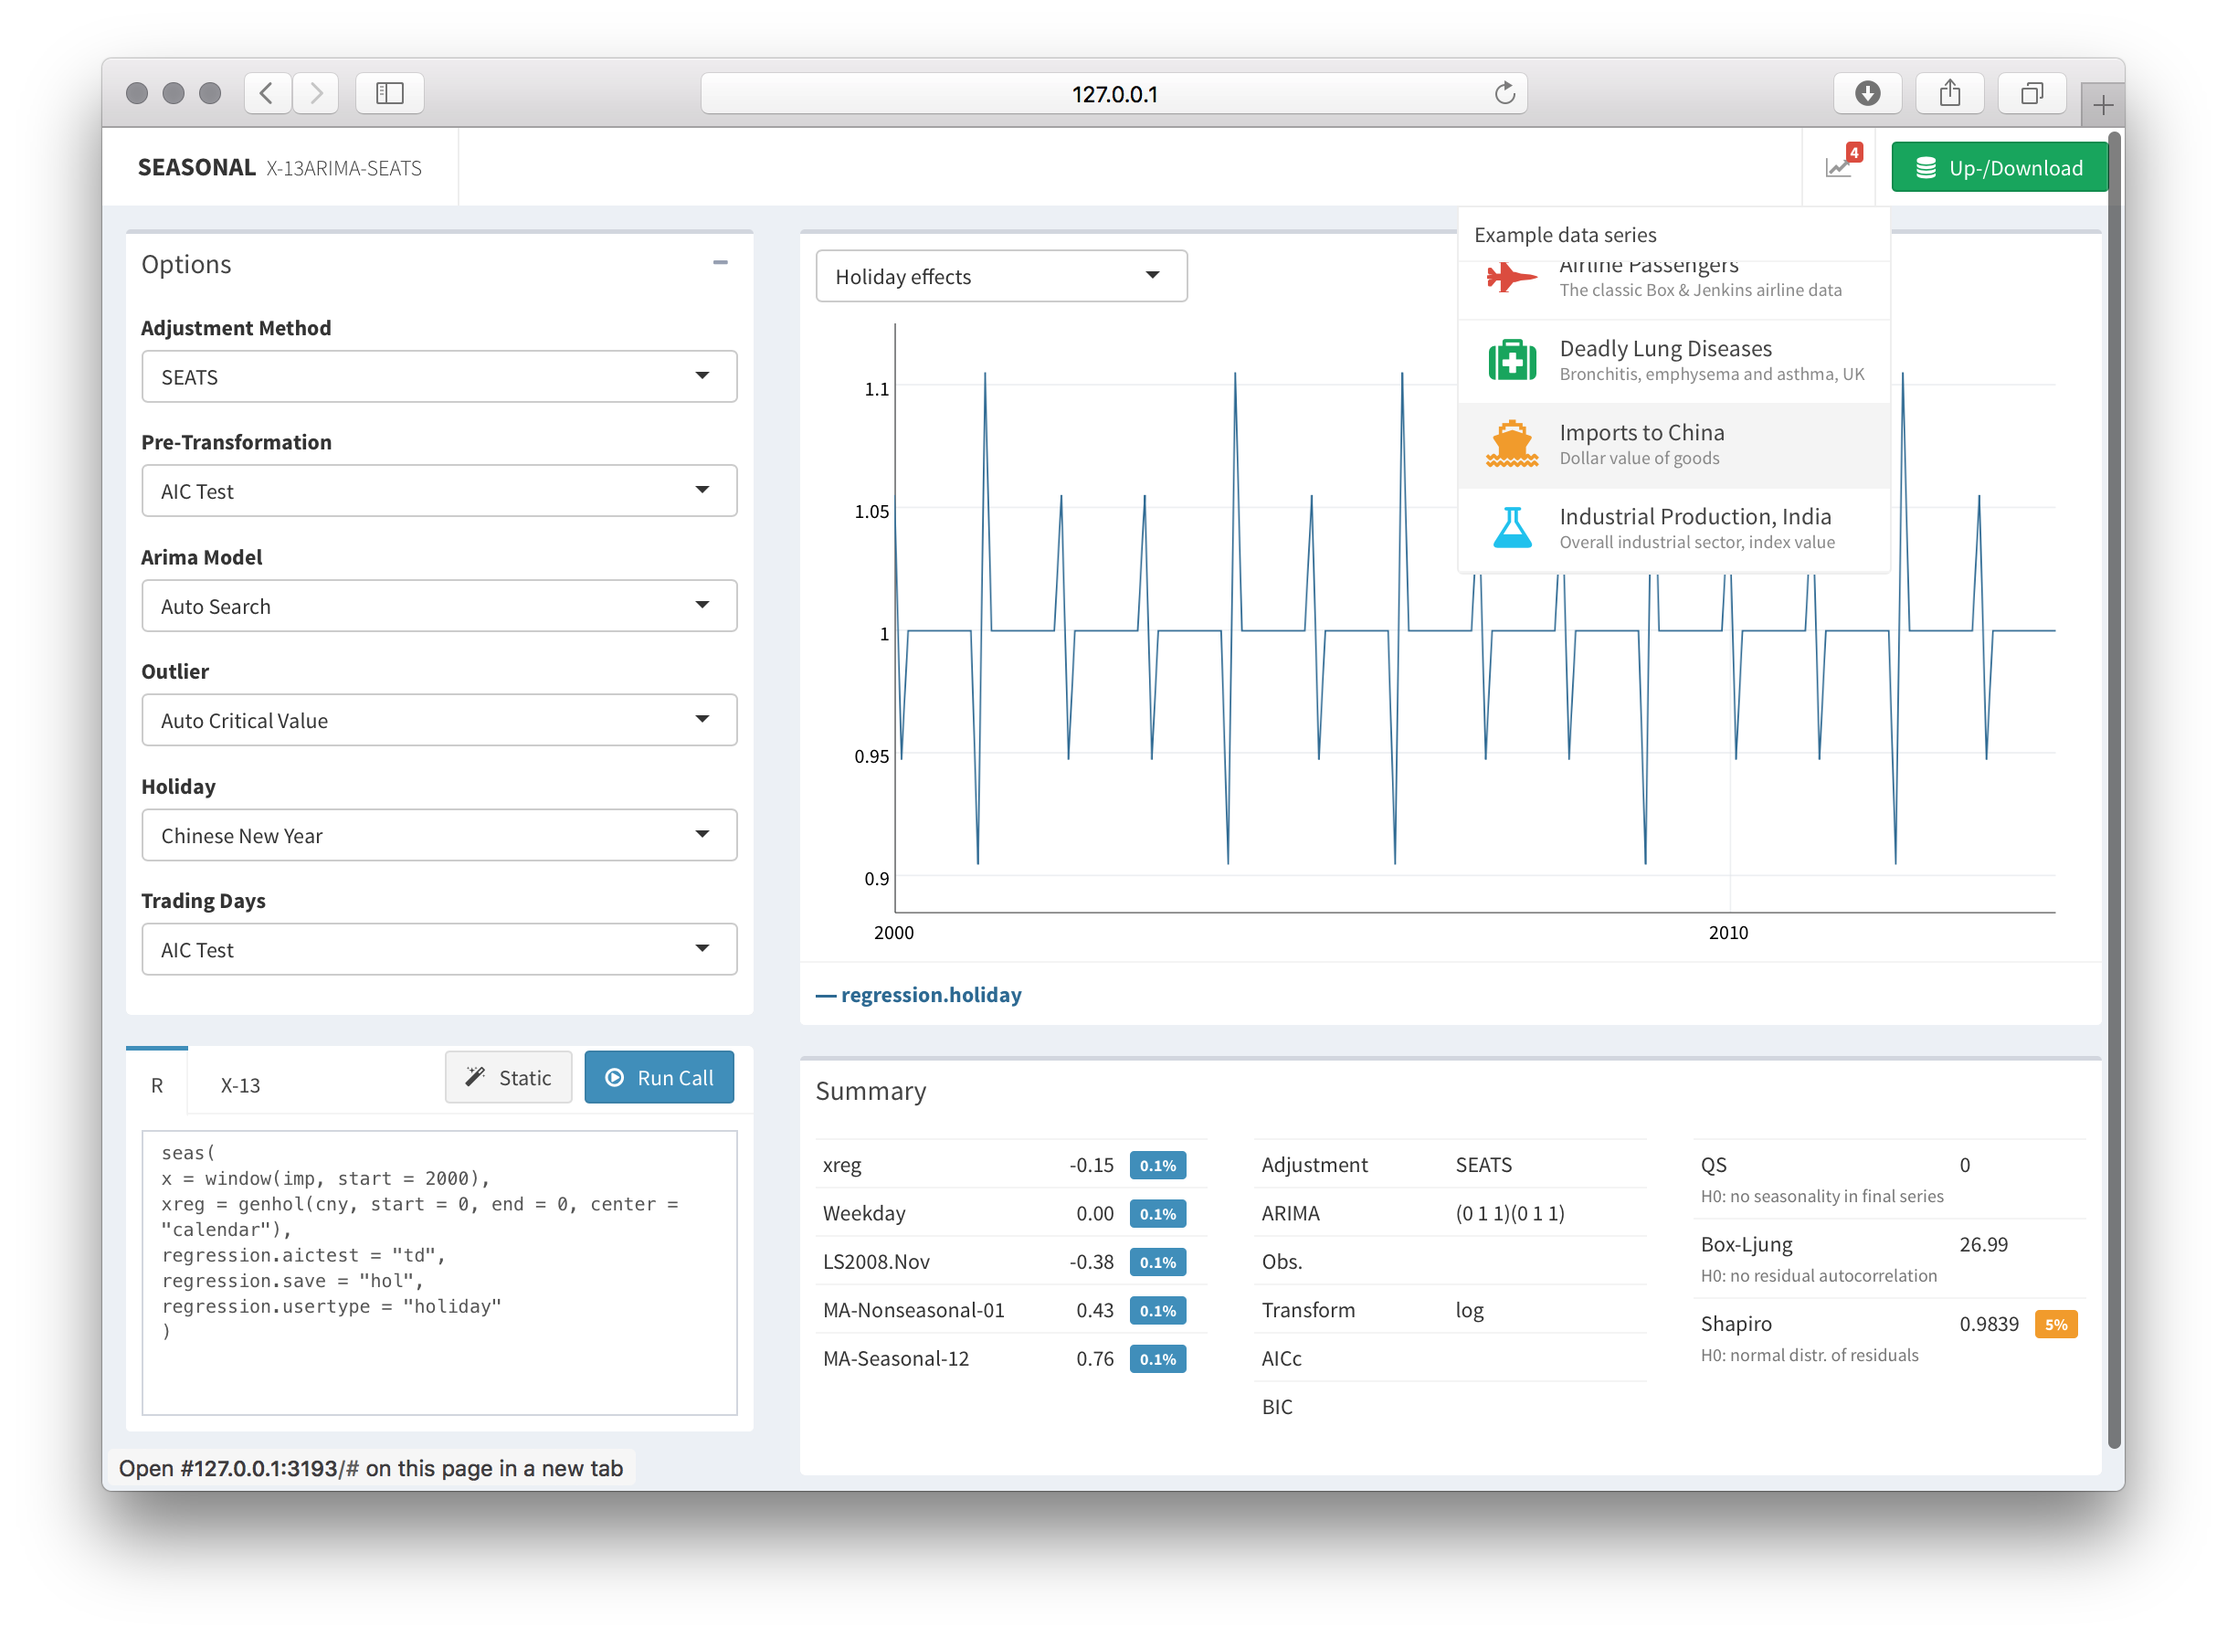
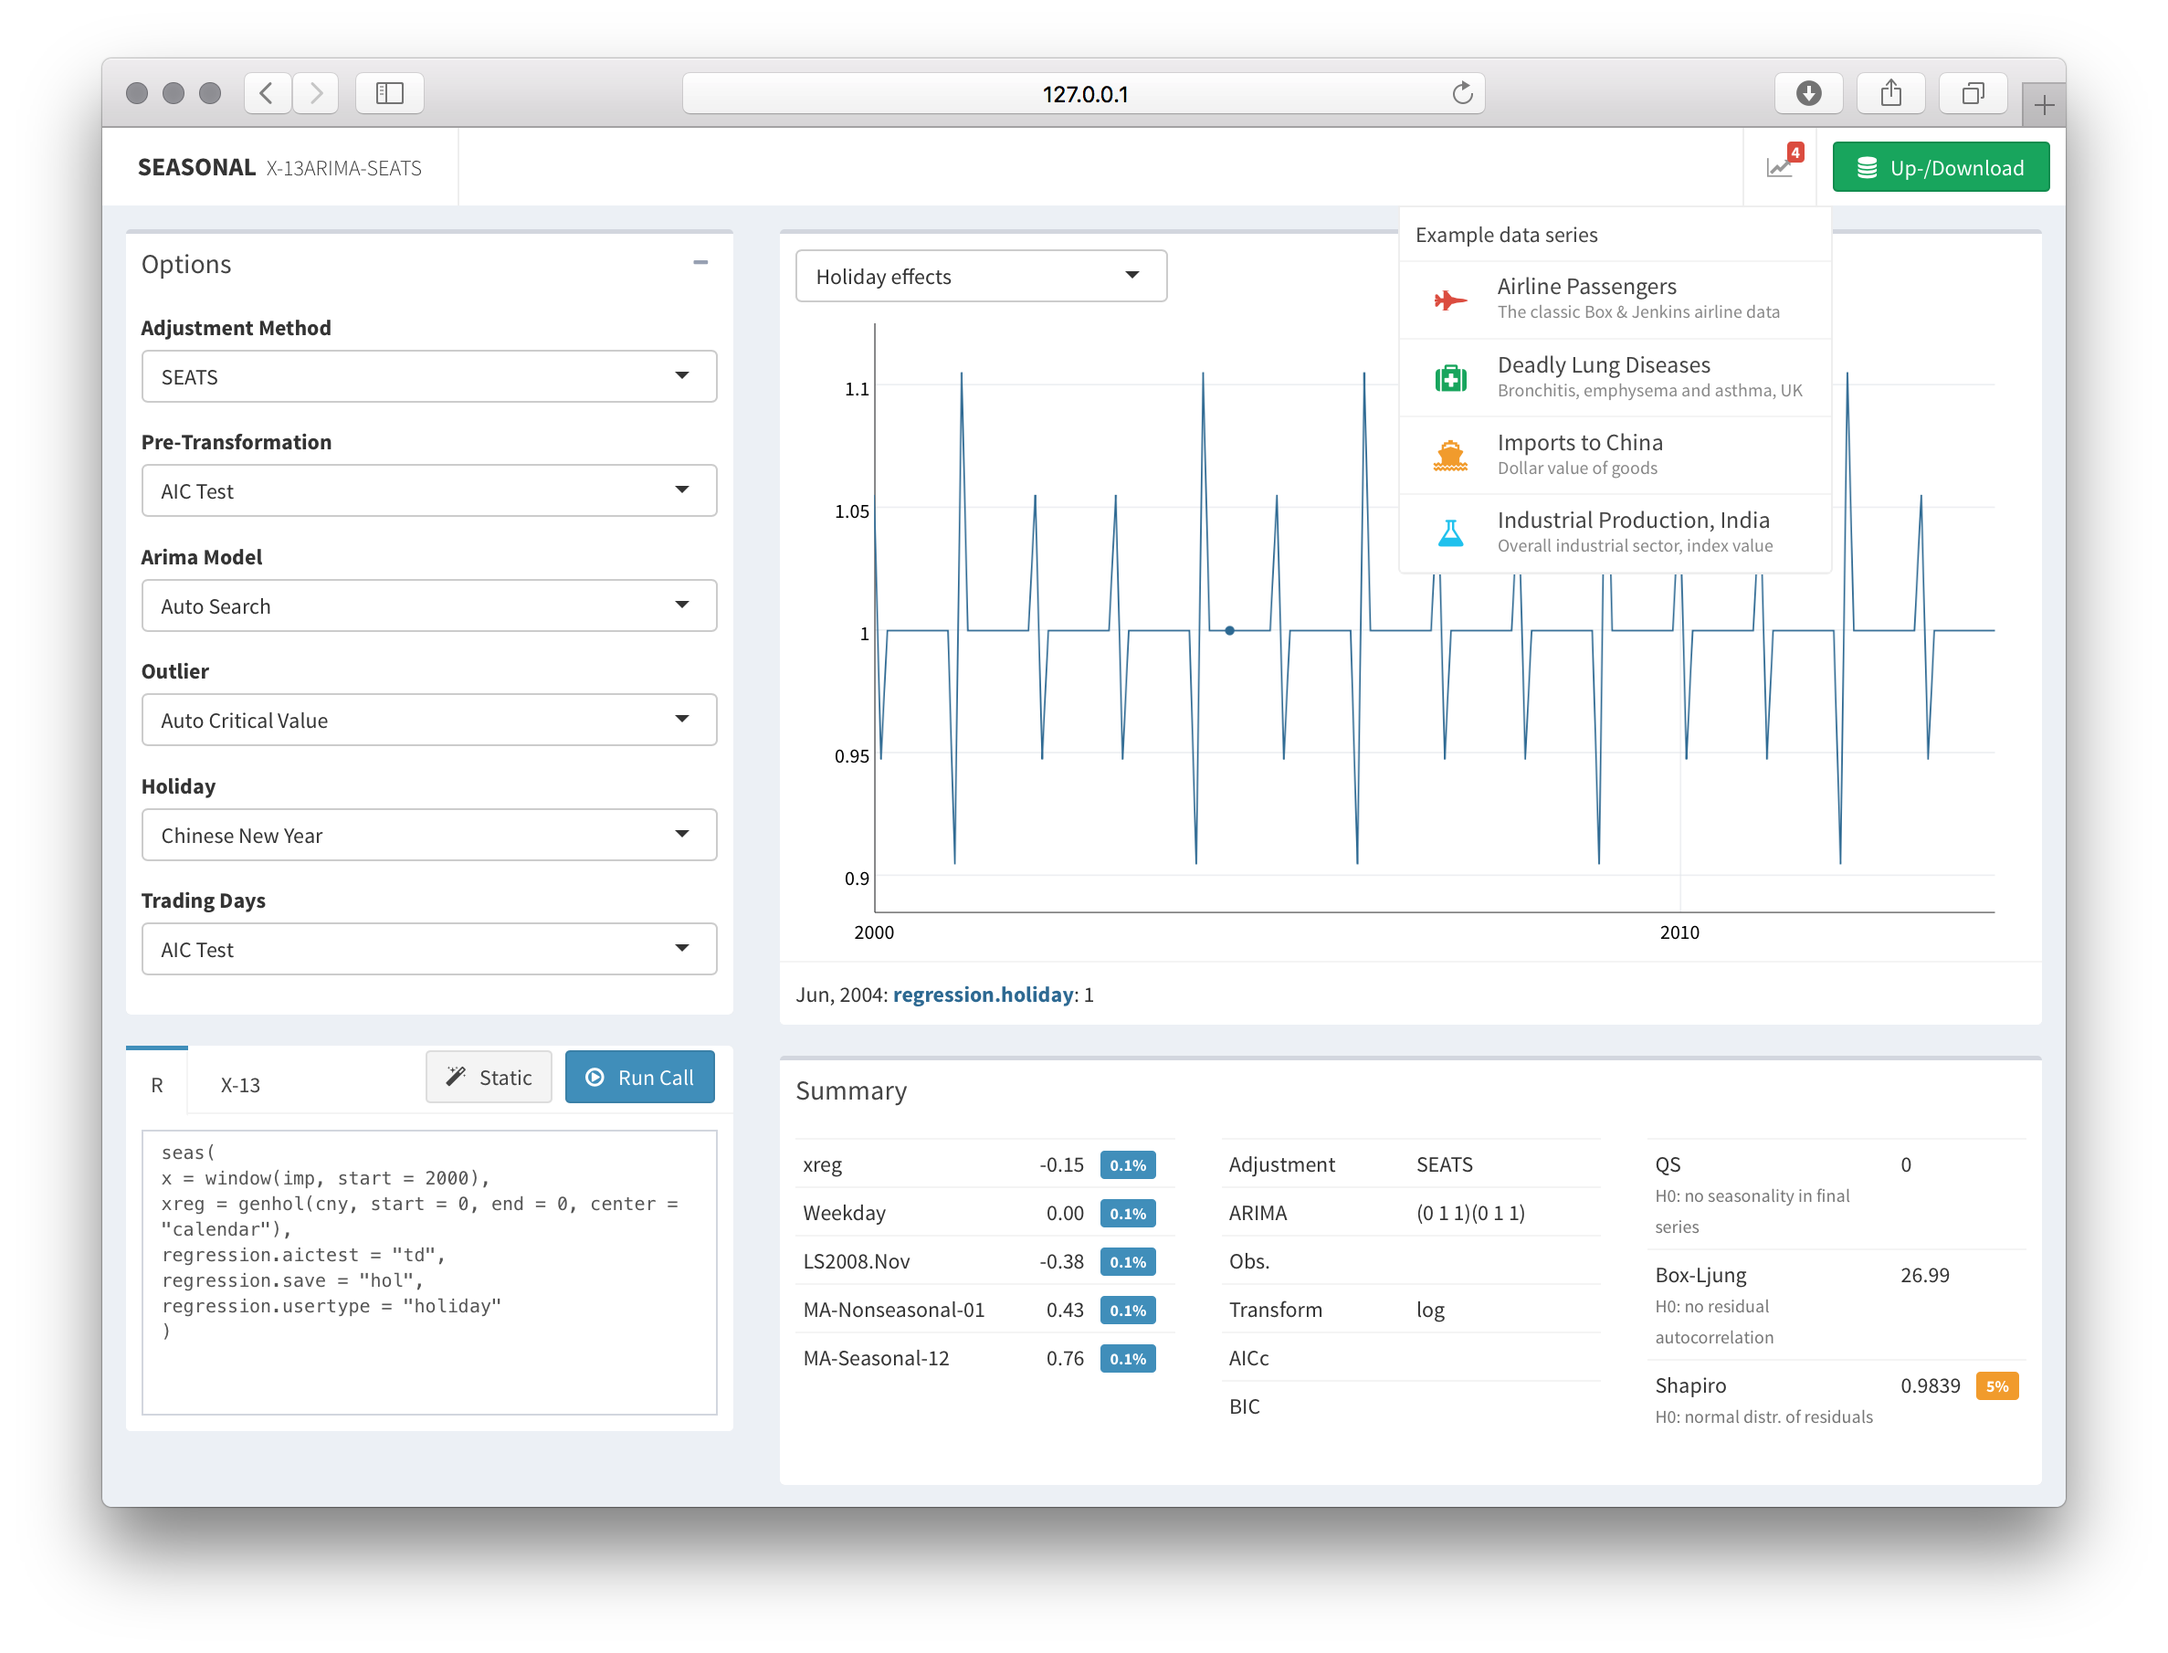
dropdown css

diff --git a/inst/app/www/docs.css b/inst/app/www/docs.css
@@ -1,5 +1,14 @@
 
+/*Smaller icons and less padding, so li elements fit into dropbox*/
+.navbar-nav > .messages-menu > .dropdown-menu > li .menu > li > a > .fa  {
+  padding-top: 6px;
+  font-size: 20px;
+}
+.navbar-nav>.messages-menu>.dropdown-menu>li .menu> li > a {
+  padding: 8px;
+}
 
+/*dynamic textareu, to work with JS in server.R (hacky) */
 textarea {
     resize: none;
     overflow: hidden;
@@ -7,11 +16,12 @@ textarea {
     max-height: 800px;
 }
 
-
+/*more space in shiny notfications*/
 .shiny-notification-content {
   padding: 10px;
 }
 
+/*hacky way to adjust the buttons in the navbar*/
 button.btn-navbar {
   margin-top: 9px !important;
   margin-right: 15px !important;
@@ -19,9 +29,9 @@ button.btn-navbar {
   padding: 5px !important;
   padding-left: 15px !important;
   padding-right: 15px !important;
-
 }
 
+/*Default font for logo is Helvetica. Set to default font*/
 .main-header .logo {
   font-family: 'Source Sans Pro', 'Helvetica Neue', Helvetica, Arial, sans-serif;
   font-size: 120%;
@@ -53,7 +63,6 @@ textarea{
 #oViewSelect {
     font-size: 80%;
 }
-
 
 
 /*dygraphs adjustments*/
